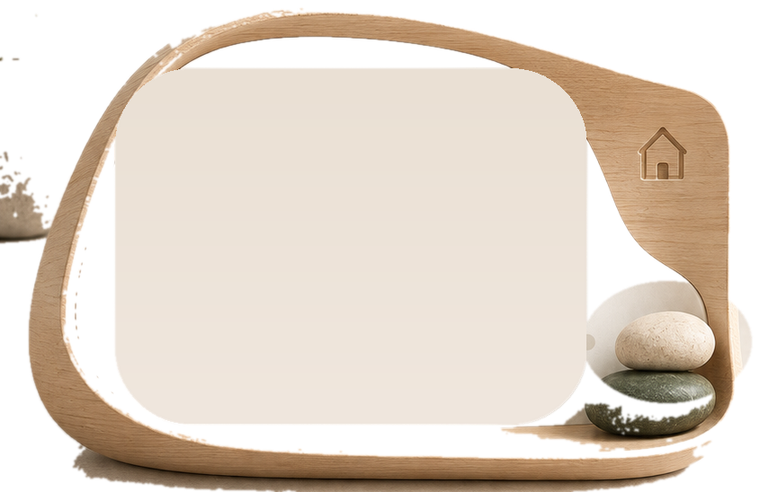
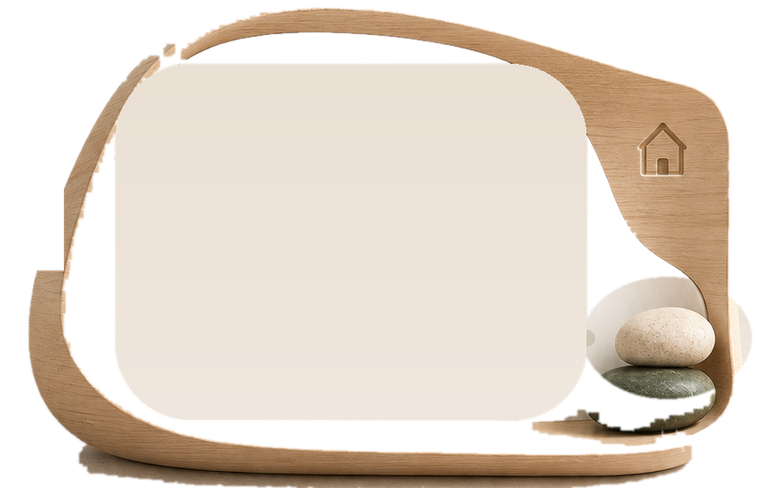
fix(demo): ניקוי נוסף לנכס הבלוב — שרידי עציץ הוסרו עם opening מורפולוגי
רז: "תנקה ותביא תמונה סופית". השרידים שנשארו מהניסיון הקודם (מסכת
צבע HSV בלבד) היו כתם מרוקם מהעציץ שלא הופרד מספיק מגוון העץ. תוקן
עם opening מורפולוגי אמיתי (MinFilter ואז MaxFilter, רדיוס 9) —
מסיר אזורים מנותקים קטנים (העציץ) בזמן ששומר על הטבעת המחוברת של
העץ עצמה, בלי צורך לצייר מלבנים ידניים לכל שריד. שריד בודד שנשאר
במגע עם קצה התמונה תוקן ידנית (מלבן שקוף קטן, מיקום מדוד).

aspect-ratio עודכן מ-760/492 ל-760/488 לפי המידות האמיתיות של הנכס
המנוקה - חוסך מתיחה עדינה של התמונה.

בדיקת רגרסיה: consistency_audit ירוק. שינוי נכס/CSS בלבד.

diff --git a/expense-app-v37-demo.html b/expense-app-v37-demo.html
@@ -1989,7 +1989,7 @@ body { background:var(--bg); }
    what makes percentage positioning exact instead of approximate. */
 .hero-blob-photo {
   position:relative; width:calc(100% + 48px); margin-inline:-24px;
-  aspect-ratio:760/492; margin-block:10px 6px;
+  aspect-ratio:760/488; margin-block:10px 6px;
 }
 .hero-blob-photo-img { position:absolute; inset:0; width:100%; height:100%; display:block; }
 /* Fixed (non-theme) colors from here down, deliberately - caught live in dark
